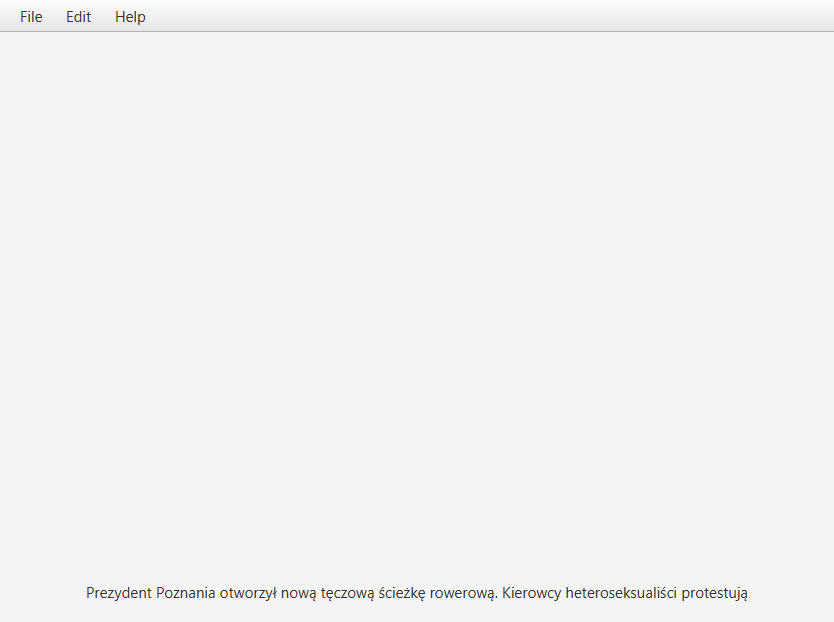
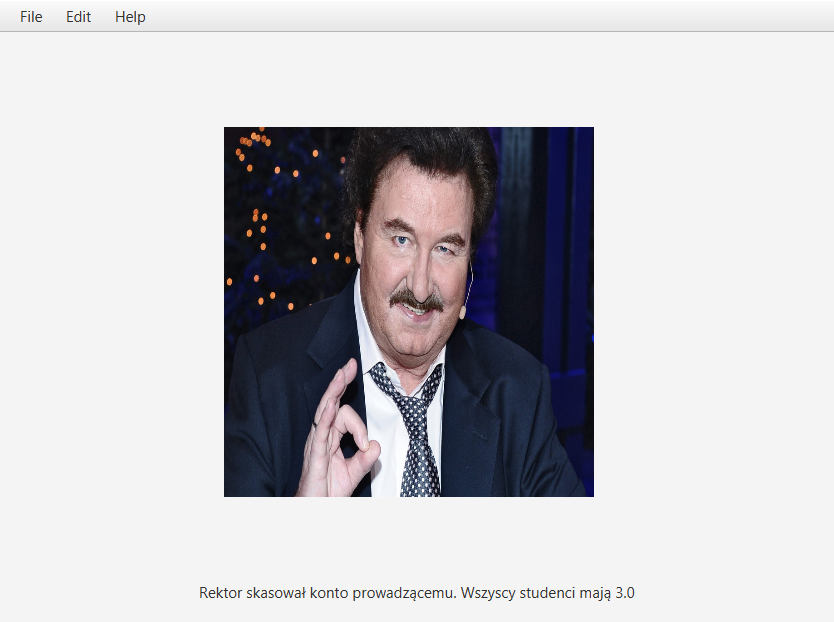
Fix view

Changed region(s): [[0.2494, 0.1833, 0.717, 0.8248], [0.0935, 0.9469, 0.9041, 0.9775]]

diff --git a/desktop-aplication/src/com/github/bosik927/model/advertisement/control/AdvertisementUICreator.java b/desktop-aplication/src/com/github/bosik927/model/advertisement/control/AdvertisementUICreator.java
@@ -7,6 +7,7 @@ import javafx.scene.Parent;
 import javafx.scene.Scene;
 import javafx.scene.image.Image;
 import javafx.scene.image.ImageView;
+import javafx.scene.layout.VBox;
 import javafx.scene.media.Media;
 import javafx.scene.media.MediaPlayer;
 import javafx.scene.media.MediaView;
@@ -26,43 +27,48 @@ public class AdvertisementUICreator implements Runnable {
 
     private static final Logger LOGGER = Logger.getLogger(AdvertisementUICreator.class.getName());
     private Advertisement advertisement;
+    private Parent root;
 
-    public AdvertisementUICreator(Advertisement advertisement) {
+    public AdvertisementUICreator(Advertisement advertisement, Parent root) {
         this.advertisement = advertisement;
+        this.root = root;
+
     }
 
     @Override
     public void run() {
-        Parent root = null;
-        try {
-            if (advertisement.getData_type().equals("image")) {
-                root = FXMLLoader.load(getClass().getResource("PictureAdvertisement.fxml"));
-                ImageView imageView = (ImageView) root.lookup("#imageView");
-                imageView.setImage(readImage(advertisement.getSource()));
-            }
+        VBox vBox = (VBox) root.lookup("#advertisement");
+        vBox.getChildren().clear();
 
-            if (advertisement.getData_type().equals("video")) {
-                root = FXMLLoader.load(getClass().getResource("MediaAdvertisement.fxml"));
-                MediaView mediaView = (MediaView) root.lookup("#mediaView");
-                mediaView.setMediaPlayer(readVideo(advertisement.getSource()));
-            }
-
-            if (advertisement.getData_type().equals("web")) {
-                root = FXMLLoader.load(getClass().getResource("WebAdvertisement.fxml"));
-                WebView webView = (WebView) root.lookup("#webView");
-                WebEngine webEngine = webView.getEngine();
-                webEngine.load(advertisement.getSource());
-            }
-
-            Stage stage = new Stage();
-            stage.setTitle("Advertisement");
-            stage.setScene(new Scene(root));
-            stage.show();
-
-        } catch (IOException e) {
-            e.printStackTrace();
-            System.out.println("Problem with reading PictureAdvertisement.fxml file!");
+        if (advertisement.getData_type().equals("image")) {
+            ImageView imageView = new ImageView();
+            imageView.setImage(readImage(advertisement.getSource()));
+            imageView.setSmooth(true);
+            imageView.setFitHeight(vBox.getHeight());
+            imageView.setFitWidth(vBox.getWidth());
+            vBox.getChildren().add(imageView);
         }
+
+        if (advertisement.getData_type().equals("video")) {
+            MediaView mediaView = new MediaView();
+            mediaView.setMediaPlayer(readVideo(advertisement.getSource()));
+            mediaView.setSmooth(true);
+            mediaView.setFitHeight(vBox.getHeight());
+            mediaView.setFitWidth(vBox.getWidth());
+            vBox.getChildren().add(mediaView);
+        }
+
+        if (advertisement.getData_type().equals("web")) {
+            WebView webView = new WebView();
+            WebEngine webEngine = webView.getEngine();
+            webEngine.load(advertisement.getSource());
+            vBox.getChildren().add(webView);
+        }
+
+        Stage stage = new Stage();
+        stage.setTitle("Advertisement");
+        stage.setScene(new Scene(root));
+        stage.show();
 
     }
 

diff --git a/desktop-aplication/src/com/github/bosik927/model/advertisement/control/AdvertisementThread.java b/desktop-aplication/src/com/github/bosik927/model/advertisement/control/AdvertisementThread.java
@@ -2,6 +2,7 @@ package com.github.bosik927.model.advertisement.control;
 
 import com.github.bosik927.model.advertisement.entity.Advertisement;
 import javafx.application.Platform;
+import javafx.scene.Parent;
 
 import java.util.LinkedList;
 import java.util.Queue;
@@ -11,14 +12,19 @@ import java.util.concurrent.TimeUnit;
 public class AdvertisementThread implements Runnable {
 
     public static Queue<Advertisement> advertisements = new LinkedList<>();
+    private Parent root;
+
+    public AdvertisementThread(Parent root) {
+        this.root = root;
+    }
 
     public void run() {
         while (true) {
             try {
                 Advertisement advertisement = advertisements.remove();
                 advertisements.add(advertisement);
+                Platform.runLater(new AdvertisementUICreator(advertisement, root));
                 TimeUnit.SECONDS.sleep(advertisement.getTime());
-                Platform.runLater(new AdvertisementUICreator(advertisement));
             } catch (Exception e) {
                 e.printStackTrace();
             }

diff --git a/desktop-aplication/src/com/github/bosik927/App.java b/desktop-aplication/src/com/github/bosik927/App.java
@@ -26,7 +26,7 @@ public class App extends Application {
         primaryStage.show();
 
         initialization();
-        Thread advertisementThread = new Thread(new AdvertisementThread());
+        Thread advertisementThread = new Thread(new AdvertisementThread(root));
         advertisementThread.start();
         threads.add(advertisementThread);
 
